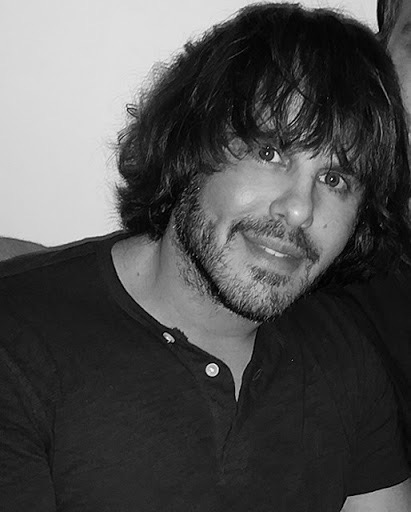
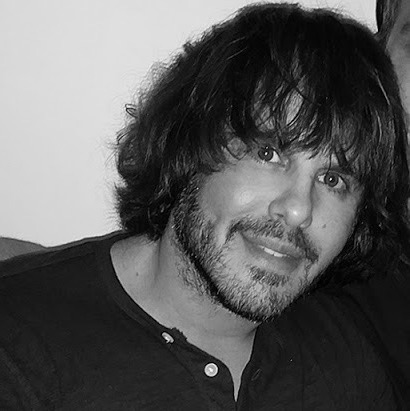
addedremaining pictures

diff --git a/src/Team.js b/src/Team.js
@@ -1,9 +1,11 @@
 import React from "react";
 import { Card, Image } from "semantic-ui-react";
 import veda from "/Users/taliabahar/Desktop/Code/Inkling/src/Images/Veda.JPG";
+import talia from "/Users/taliabahar/Desktop/Code/Inkling/src/Images/Talia.JPG";
 import cooper from "/Users/taliabahar/Desktop/Code/Inkling/src/Images/Cooper.jpg";
 import maya from "/Users/taliabahar/Desktop/Code/Inkling/src/Images/Maya.jpeg";
 import marco from "/Users/taliabahar/Desktop/Code/Inkling/src/Images/Marco.jpeg";
+import sam from "/Users/taliabahar/Desktop/Code/Inkling/src/Images/Sam.jpeg";
 
 function Team() {
   return (
@@ -13,11 +15,7 @@ function Team() {
       </h1>
       <Card.Group centered>
         <Card style={{ margin: "15px 30px" }}>
-          <Image
-            src="https://react.semantic-ui.com/images/avatar/large/matthew.png"
-            wrapped
-            ui={false}
-          />
+          <Image src={sam} wrapped ui={false} />
           <Card.Content>
             <Card.Header>Sam Gibson</Card.Header>
             <Card.Meta>Computer Science</Card.Meta>
@@ -49,11 +47,7 @@ function Team() {
           </Card.Content>
         </Card>
         <Card style={{ margin: "15px 30px" }}>
-          <Image
-            src="https://react.semantic-ui.com/images/avatar/large/matthew.png"
-            wrapped
-            ui={false}
-          />
+          <Image src={talia} wrapped ui={false} />
           <Card.Content>
             <Card.Header>Talia Bahar</Card.Header>
             <Card.Meta>Computer Science/Graphic Arts</Card.Meta>

diff --git a/src/Code.js b/src/Code.js
@@ -285,7 +285,3 @@ function Code() {
 }
 
 export default Code;
-
-// ouList is List<Text> ["this", "is", "a", "legal", "list", "in", "Inkling"]
-// aListOfNums is List<Text> ["1", "2", "3", "4", "5", "6", "7"]
-// aListOfNums[0] is 0
